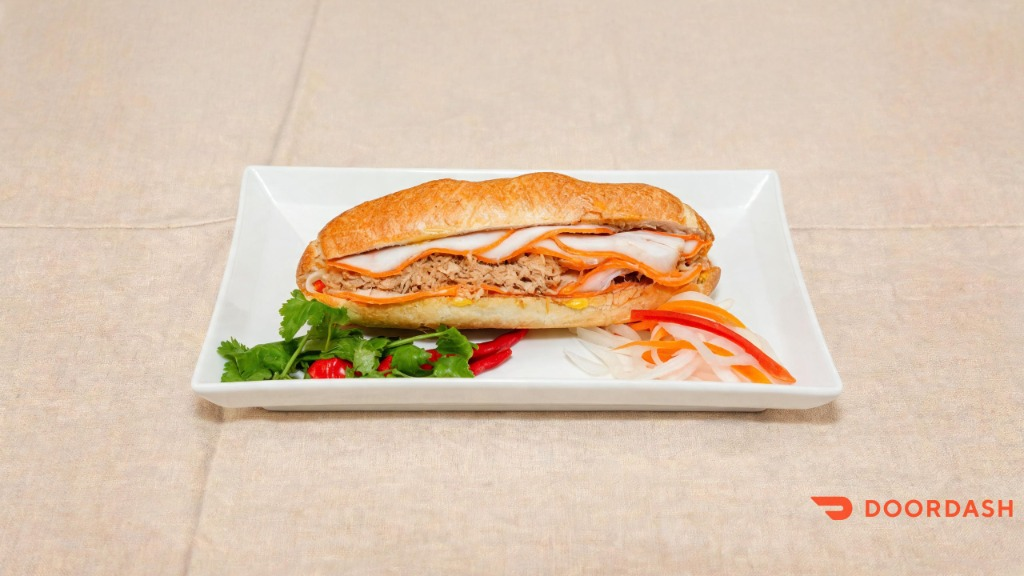
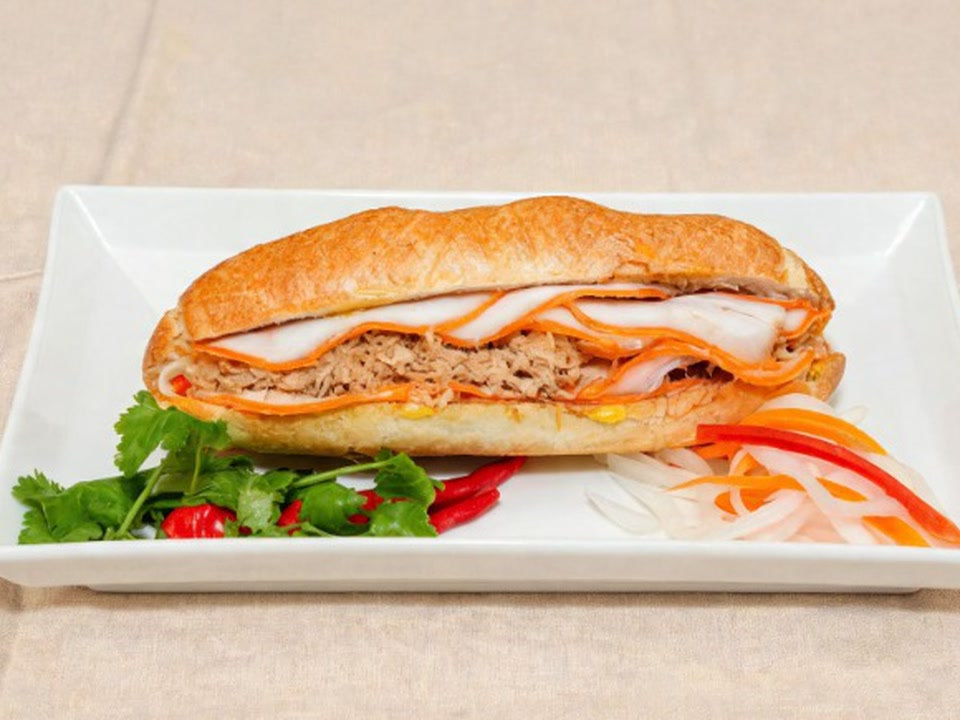
Redesign home 4-dish satellite grid into 2x2 boutique cards and clean N1/N41 crops

diff --git a/css/style.css b/css/style.css
@@ -1337,7 +1337,7 @@ h4:focus,
   font-size: 0.92rem;
 }
 
-/* 4 Satellite Dishes - Harmonious 4-Column Balanced Grid */
+/* 4 Satellite Dishes - Balanced 2x2 Editorial Boutique Grid (No Stretched Blank Voids) */
 .dz-satellite-head {
   padding-top: 14px;
   border-top: 1.5px dashed var(--line-warm);
@@ -1350,27 +1350,63 @@ h4:focus,
 
 .dz-satellite-grid {
   display: grid;
-  grid-template-columns: repeat(4, 1fr);
-  gap: 20px;
-  align-content: stretch;
+  grid-template-columns: repeat(2, 1fr);
+  gap: 22px;
+  align-items: stretch;
 }
 
 .dz-satellite-grid .dish-card {
-  display: flex;
-  flex-direction: column;
+  display: grid;
+  grid-template-columns: clamp(168px, 16vw, 212px) 1fr;
   margin: 0;
+  min-width: 0;
+  height: 100%;
   box-shadow: 6px 6px 0 var(--gold-crust);
 }
 
 .dz-satellite-grid .dish-image-wrapper {
-  aspect-ratio: 4 / 3;
-  height: auto;
+  height: 100%;
+  min-height: 220px;
+  aspect-ratio: auto;
+  border-bottom: none;
+  border-right: 2px solid var(--ink-pandan);
+}
+
+.dz-satellite-grid .dish-badge {
+  font-size: 0.6rem;
+  line-height: 1.2;
+  letter-spacing: 0.05em;
+  padding: 3px 8px;
+  max-width: calc(100% - 20px);
+  white-space: normal;
+  text-align: center;
 }
 
 .dz-satellite-grid .dish-info {
+  padding: 16px 18px;
   display: flex;
   flex-direction: column;
-  flex-grow: 1;
+  justify-content: space-between;
+  gap: 8px;
+  min-width: 0;
+}
+
+.dz-satellite-grid .dish-header {
+  gap: 10px;
+  align-items: baseline;
+  margin-bottom: 4px;
+}
+
+.dz-satellite-grid .dish-name {
+  font-size: 1.16rem;
+  line-height: 1.15;
+  min-width: 0;
+}
+
+.dz-satellite-grid .dish-price {
+  font-size: 1.08rem;
+  line-height: 1.15;
+  flex-shrink: 0;
 }
 
 .dz-satellite-grid .dish-desc {
@@ -1378,13 +1414,46 @@ h4:focus,
   -webkit-line-clamp: 2;
   -webkit-box-orient: vertical;
   overflow: hidden;
-  font-size: 0.86rem;
-  line-height: 1.5;
-  margin-bottom: 12px;
+  font-size: 0.84rem;
+  line-height: 1.46;
+  margin-bottom: 8px;
+}
+
+.dz-satellite-grid .dish-desc.expanded {
+  display: block;
+  -webkit-line-clamp: unset;
+}
+
+.dz-satellite-grid .dish-allergens-row {
+  gap: 4px;
+  margin: 4px 0 6px;
+}
+
+.dz-satellite-grid .allergen-chip {
+  font-size: 0.68rem;
+  padding: 2px 7px;
+}
+
+.dz-satellite-grid .dish-options {
+  margin: 6px 0 2px;
+  padding: 7px 9px;
+}
+
+.dz-satellite-grid .dish-options-header {
+  font-size: 0.72rem;
+  margin-bottom: 5px;
+}
+
+.dz-satellite-grid .dish-option-pill {
+  font-size: 0.72rem;
+  padding: 4px 9px;
 }
 
 .dz-satellite-grid .dish-footer {
   margin-top: auto;
+  padding-top: 10px;
+  gap: 10px;
+  align-items: flex-end;
 }
 
 .dz-satellite-grid .dish-card:hover {
@@ -2319,6 +2388,7 @@ h4:focus,
   display: flex;
   flex-wrap: wrap;
   gap: 5px;
+  min-width: 0;
 }
 
 .dish-tags span {
@@ -2328,6 +2398,7 @@ h4:focus,
   background: var(--mint-soft);
   padding: 3px 8px;
   border-radius: 6px;
+  white-space: nowrap;
 }
 
 .dish-tags span:first-child {
@@ -2348,6 +2419,7 @@ h4:focus,
   border-radius: var(--radius-pill);
   cursor: pointer;
   white-space: nowrap;
+  flex-shrink: 0;
   transition: all 0.15s ease;
 }
 
@@ -3777,6 +3849,38 @@ h4:focus,
 
   .footer-grid {
     grid-template-columns: 1fr 1fr;
+  }
+
+  .dz-satellite-grid {
+    grid-template-columns: repeat(2, 1fr);
+    gap: 16px;
+  }
+
+  .dz-satellite-grid .dish-card {
+    display: flex;
+    flex-direction: column;
+  }
+
+  .dz-satellite-grid .dish-image-wrapper {
+    height: auto;
+    min-height: 0;
+    aspect-ratio: 4 / 3;
+    border-right: none;
+    border-bottom: 2px solid var(--ink-pandan);
+  }
+
+  .dz-satellite-grid .dish-info {
+    padding: 16px 18px 18px;
+    gap: 0;
+  }
+
+  .dz-satellite-grid .dish-name {
+    font-size: 1.22rem;
+    line-height: 1.12;
+  }
+
+  .dz-satellite-grid .dish-price {
+    font-size: 1.14rem;
   }
 }
 
